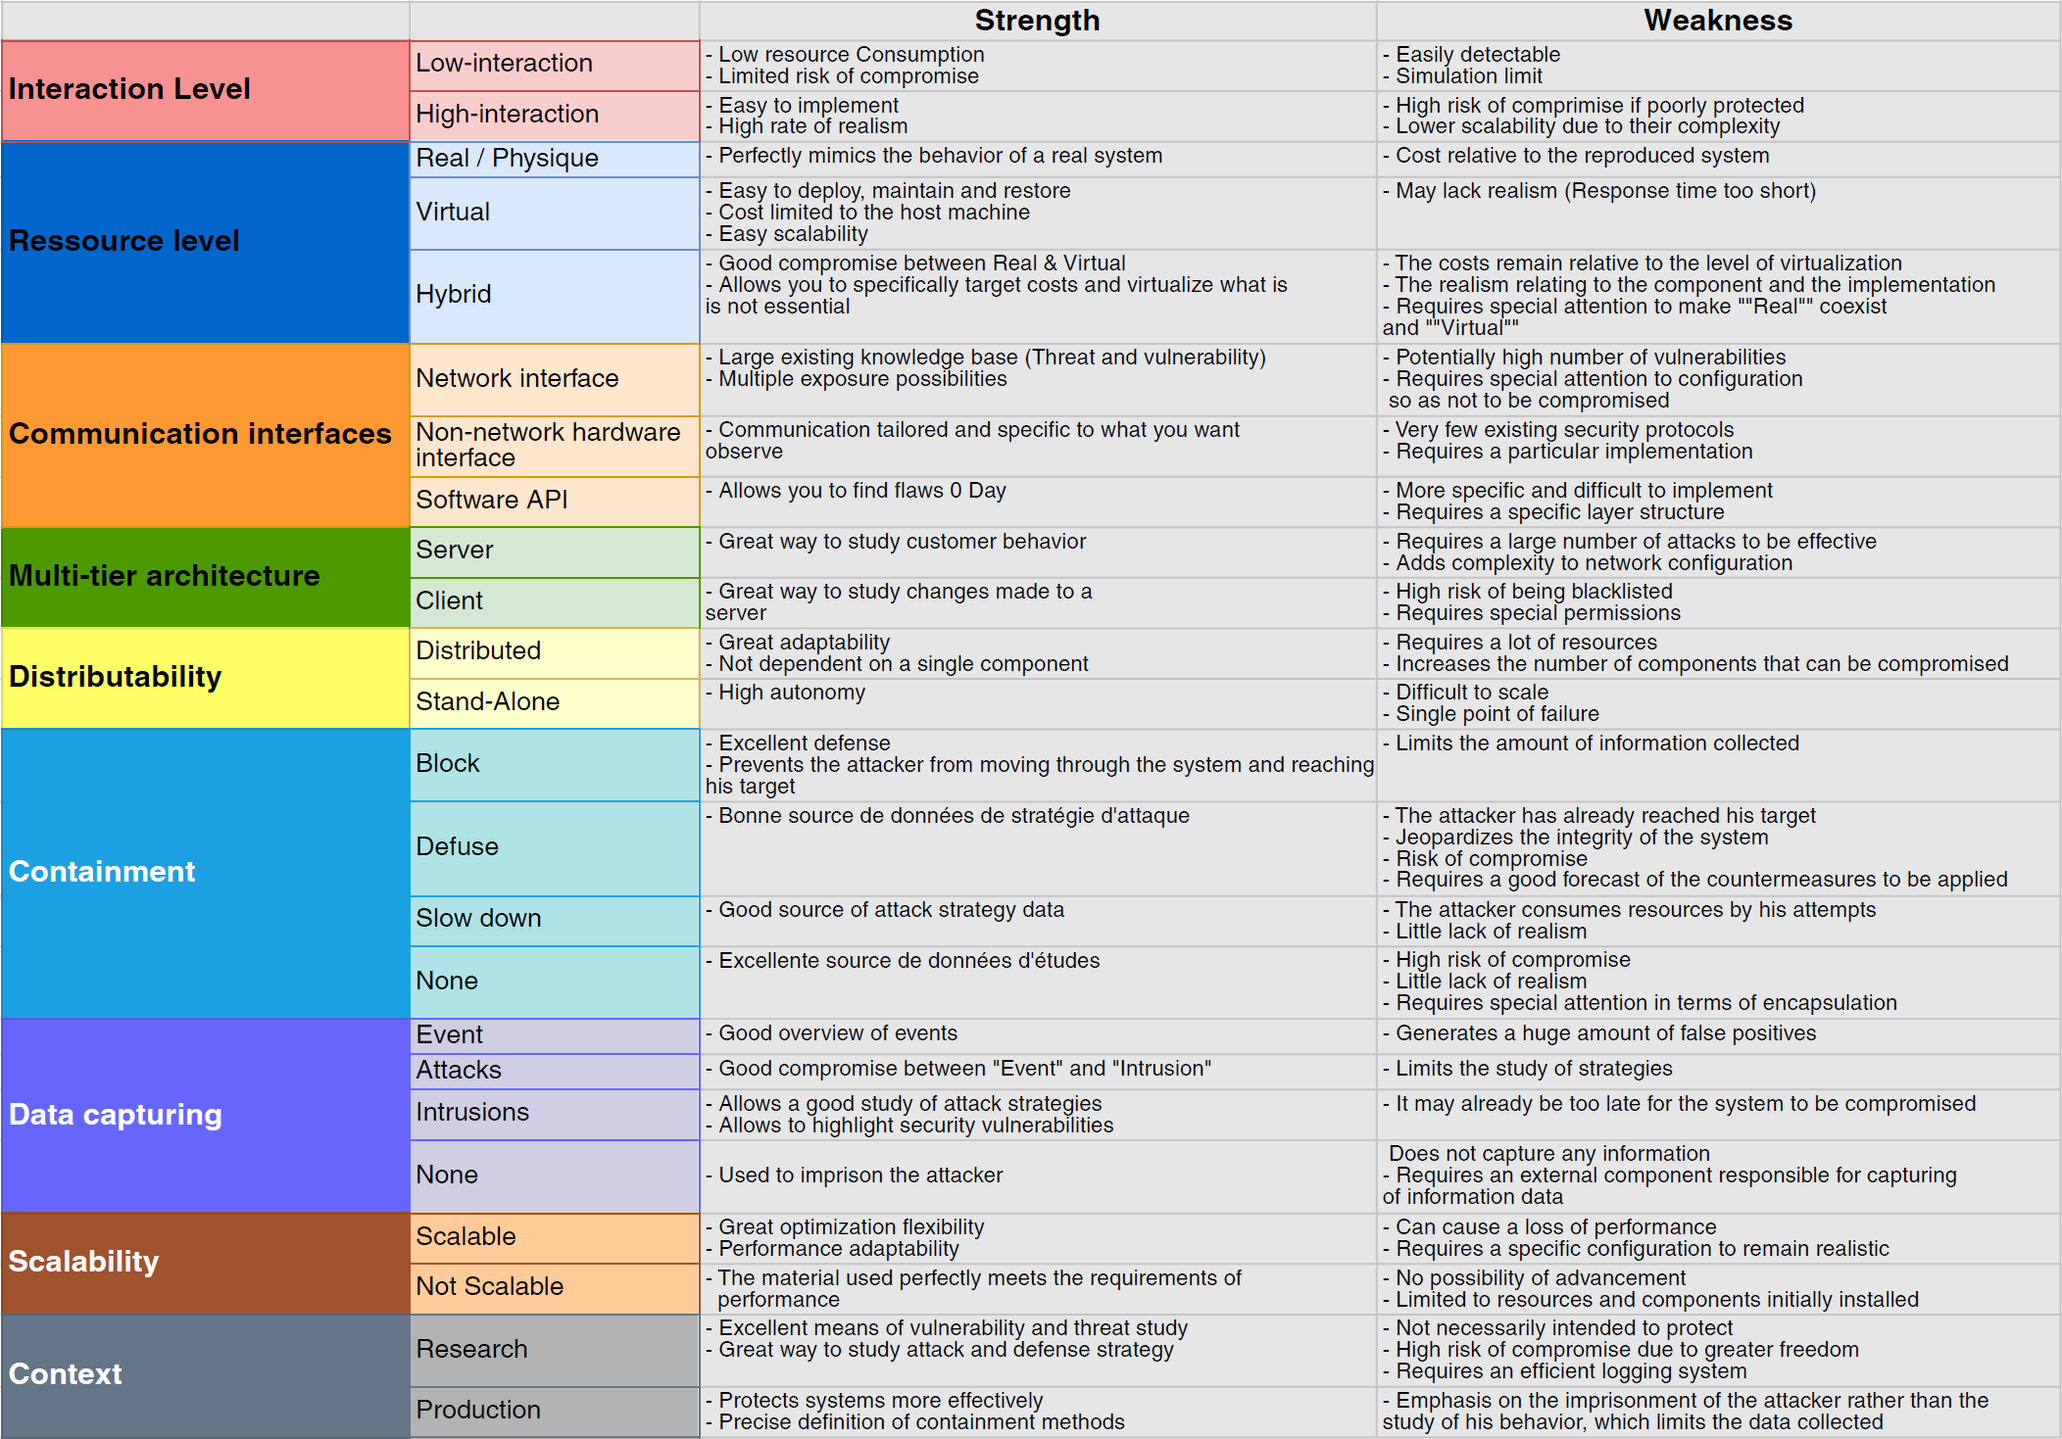
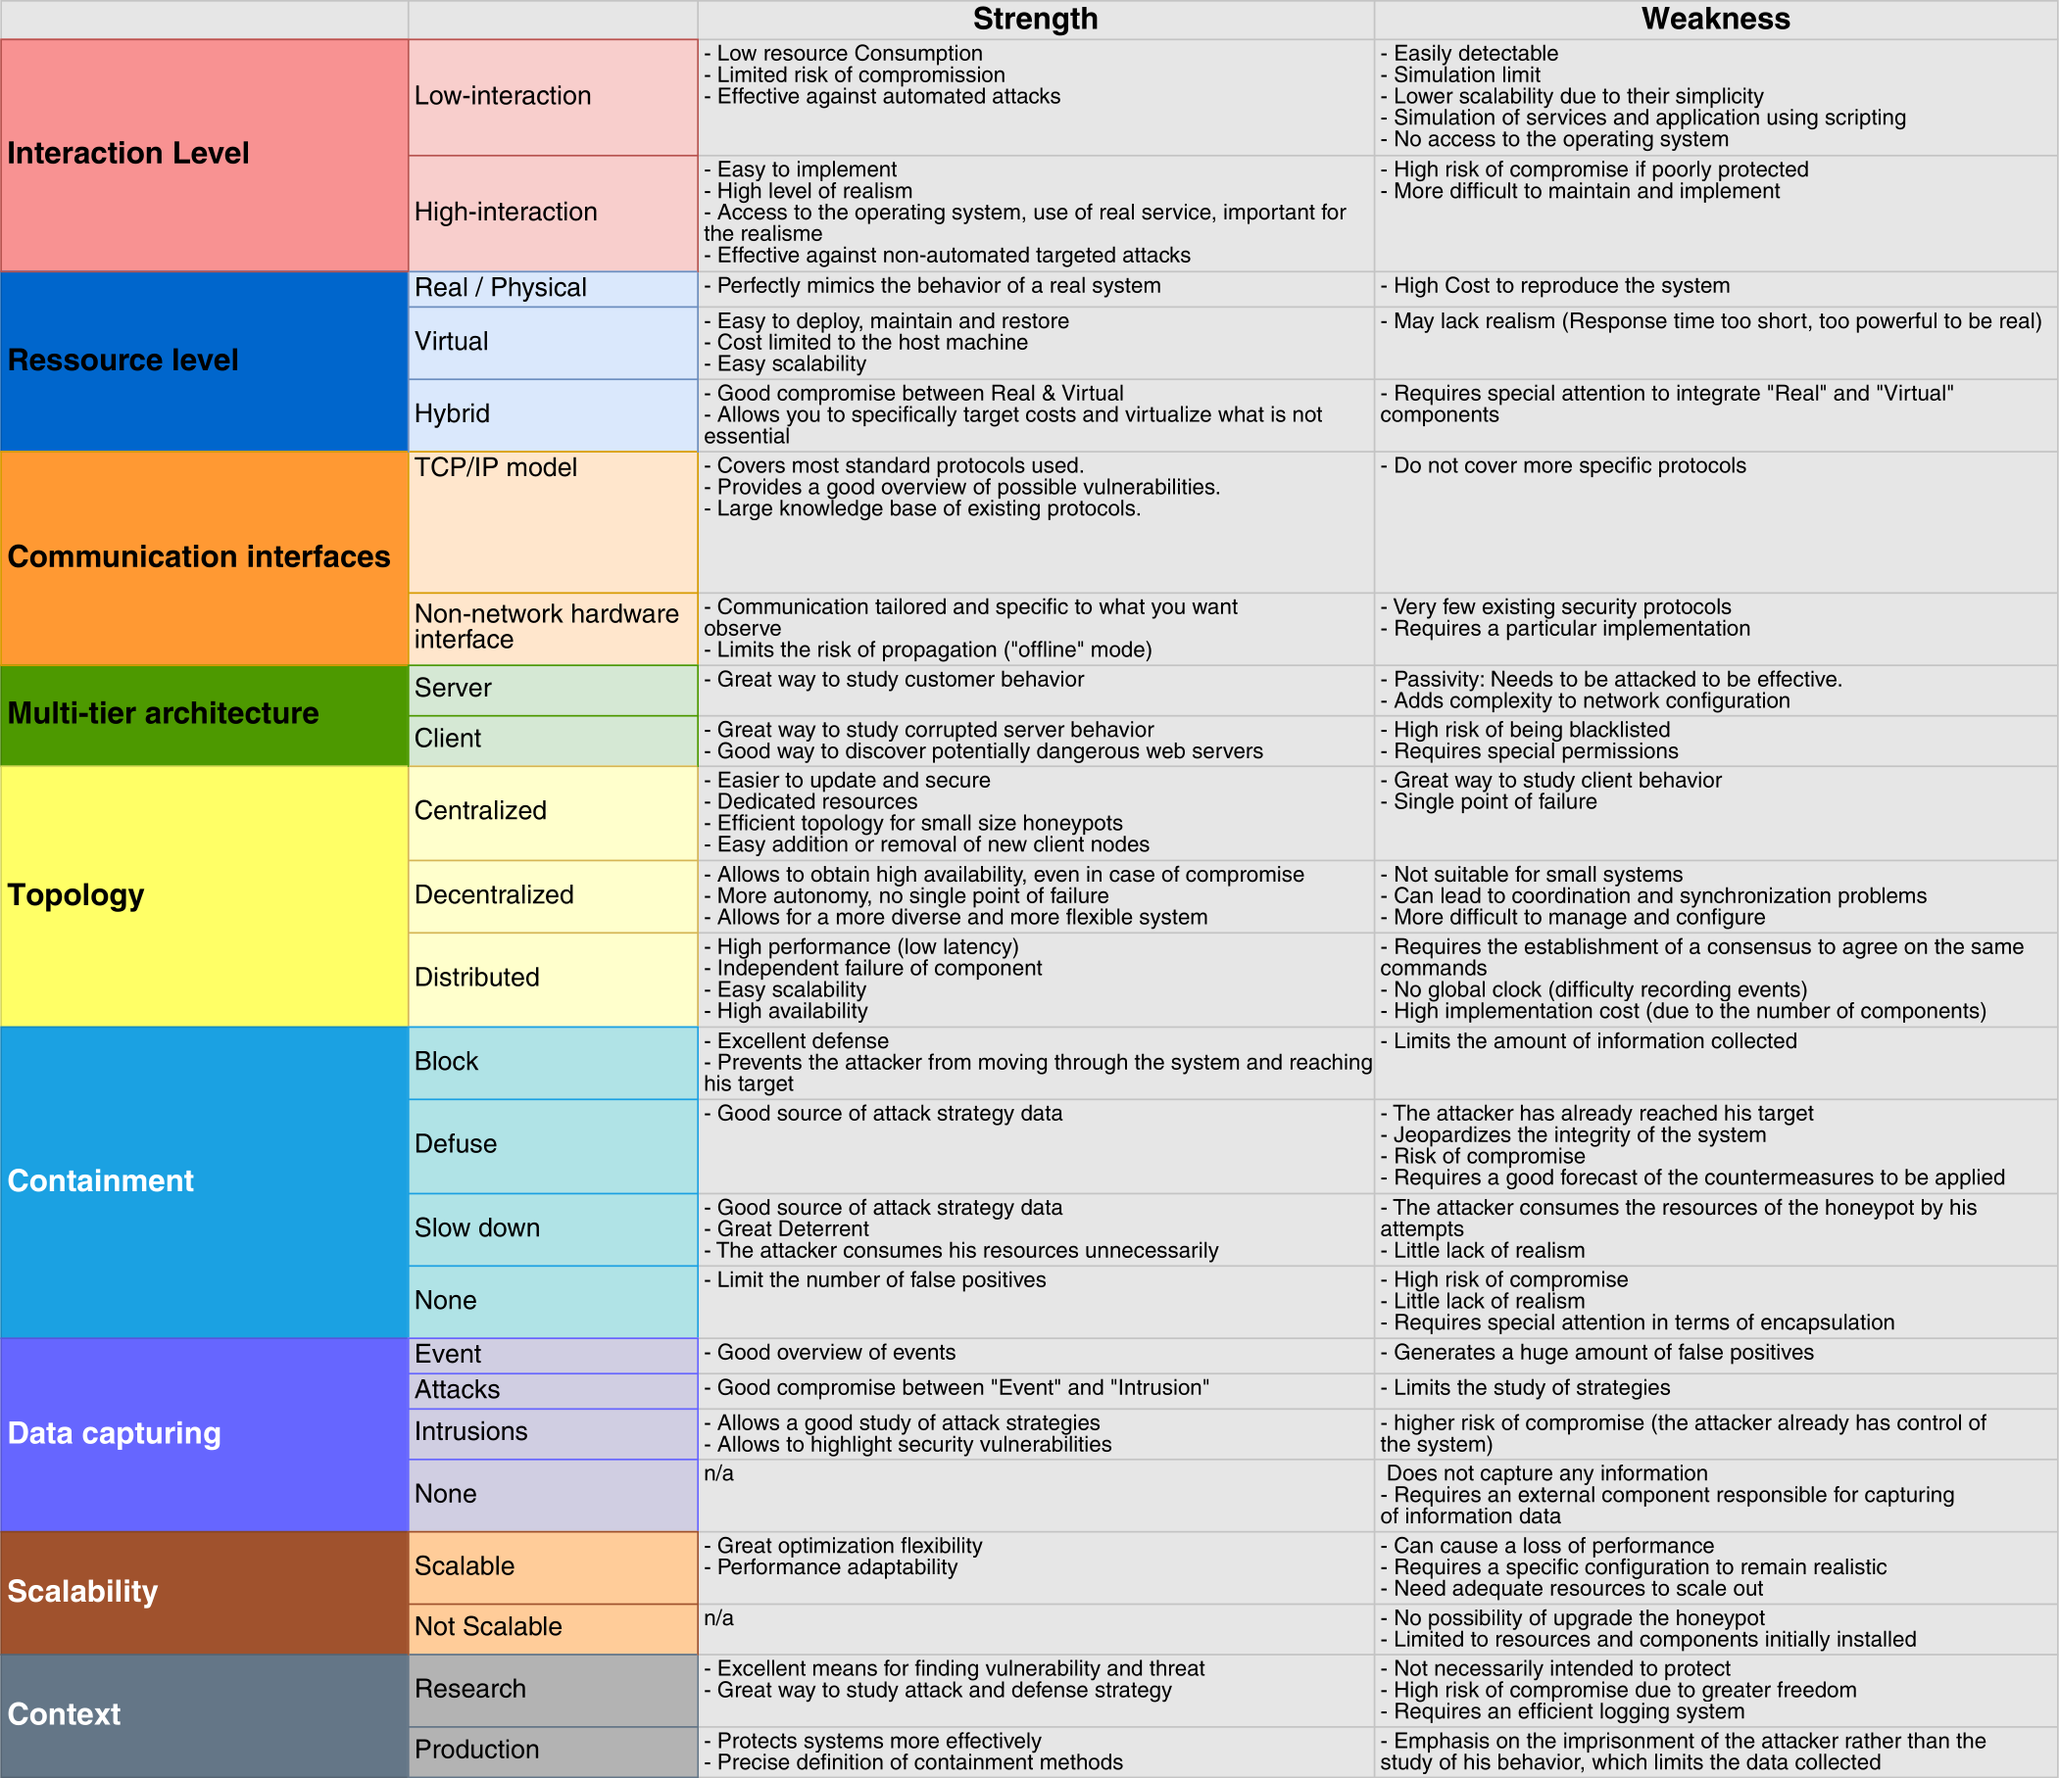
Updated table of strengths and weaknesses of characteristics

Changed region(s): [[0.0, 0.0, 0.99, 1.0], [0.0, 0.6433, 0.0928, 0.6739]]

diff --git a/State Ot Art.md b/State Ot Art.md
@@ -70,13 +70,13 @@ To better understand, let's take the example of the wastewater treatment plant. 
 The **virtual** honeypot is a virtual copy of the wastewater plant. Hosted on a machine capable of virtualizing the layers and services of each component. Virtualization makes it possible to create the 20 PLCs in such a way that they perfectly imitate the behavior of the real components of the wastewater plant. In the case of **hybrid**, one could quite imagine that the network infrastructure is completely virtualized, but that the PLCs are real physical components.
 
 ### Communication interfaces
-Communication interfaces are the characteristics that define how the honey pot will be reached and through which interface one will be able to interact with it [ 1]. In order to illustrate the different communication interface possibilities of a honeypot, we can use the TCP/IP model as a reference and comparison model.
+Communication interfaces are the characteristics that define how the honeypot will be reached and through which interface one will be able to interact with it [ 1]. In order to illustrate the different communication interface possibilities of a honeypot, we can use the TCP/IP model as a reference and comparison model.
 Each interface can be considered as a gateway to a system for attackers. The interest of defining the layers in which these interfaces are located makes it possible to specifically categorize honeypot entrance doors. Indeed, attackers can specifically target a protocol or an application and this model allows to have a better overview. A honeypot can have several exposed interfaces and each one belongs to one of these characteristics:
 * Application: layer specifying the applications used by the honeypot and which will be exposed (HTTP, SMTP, SSH, DNS, ...)
 * Transport: layer specifying how end-to-end communications are managed between processes (TCP, UDP, SCTP,...) and possible
 * Network: layer specifying the packet routing method (IP, ICMP, IGMP, IPSec, ...)
 * Network access: layer specifying the physical means (cable, radio, ...) and connection (WiFi, Ethernet, ...) used to communicate with the honeypot.
-* Non-network Hardware Interface: Honey Pot interfaces with Non Network Hardware Interfaces (PLC, USB, etc.).
+* Non-network Hardware Interface: Honeypot interfaces with Non Network Hardware Interfaces (PLC, USB, etc.).
 
 As an example in the treatment plant, we can take the case of a honeypot imitating the behavior of a server providing to clients different resource shares (files and printers) via the SMB (Server Message Block) protocol. The honeypot will receive the "**Application**: protocol SMB" feature as it is the only "exposed" interface by the honeypot. If we decide to expose flaws on other layers of the model,then we can also add these layers by specifying more precisely the protocol or technology used:
 -- **Application**: SMB protocol
@@ -149,9 +149,8 @@ In the case of a **production**, its purpose is above all to protect the real sy
 
 ## Strength and weakness of characteristics
 
+![Basic Honeypot Exemple](/IMAGES/Honeypot-Characteristics-Strength-Weaknes-tab.png)  
 <b> Fig.4 - Table of strengths and weaknesses of honeypots characteristics </b> [^19]     
-it will be uploaded after review and validation.  
-Follow the link to view the latest version -> [^13]
 
 ## Measures of Effectiveness
 
@@ -300,7 +299,7 @@ https://github.com/telekom-security/tpotce
 [^16]: Deshpande, Hrishikesh. (2015). HoneyMesh: Preventing Distributed Denial of Service Attacks using Virtualized Honeypots. International Journal of Engineering Research and. V4. 10.17577/IJERTV4IS080325. : https://www.researchgate.net/publication/281144265_HoneyMesh_Preventing_Distributed_Denial_of_Service_Attacks_using_Virtualized_Honeypots
 [^17]: Ponemon Institute, Sponsored by Palo Alto Networks. "Flipping the Economics of Attacks" .2016. https://www.ponemon.org/news-updates/blog/security/flipping-the-economics-of-attacks.html
 [^18]: L. Spitzner, "Honeypots: catching the insider threat," 19th Annual Computer Security Applications Conference, 2003. Proceedings., 2003, pp. 170-179, doi: 10.1109/CSAC.2003.1254322. : https://ieeexplore.ieee.org/abstract/document/1254322
-[^19]: honeypot/IMAGES/Honeypot-Characteristics-Strength-Weaknes-tab.drawio
-[^20]: honeypot/IMAGES/honeypot-basic-diagram.drawio
-[^21]: honeypot/IMAGES/wastewater-treatment-plant-honeypot.drawio
-[^22]: honeypot/IMAGES/Honeypot-Characteristics.drawio.drawio
+[^19]: honeypot/IMAGES/Honeypot-Characteristics-Strength-Weaknes-tab.drawio , Strength and weakness of characteristics by Abdel-Malek Bouhou https://docs.google.com/spreadsheets/d/e/2PACX-1vQIh2CTBfqDZfc2udGiV6FrjzKUtCasVX8TiVj5VKKvuYEOTsKZUEyHIBR0Yaiqiu7e75yGc7UK4Nni/pubhtml
+[^20]: Basic diagram of an environment using honeypots by Abdel-Malek Bouhou. honeypot/IMAGES/honeypot-basic-diagram.drawio
+[^21]: Diagram of a wastewater treatment plant honeypot by Abdel-Malek Bouhou. honeypot/IMAGES/wastewater-treatment-plant-honeypot.drawio
+[^22]: Diagram of the different characteristics of a honeypot by Abdel-Malek Bouhou. honeypot/IMAGES/Honeypot-Characteristics.drawio.drawio
